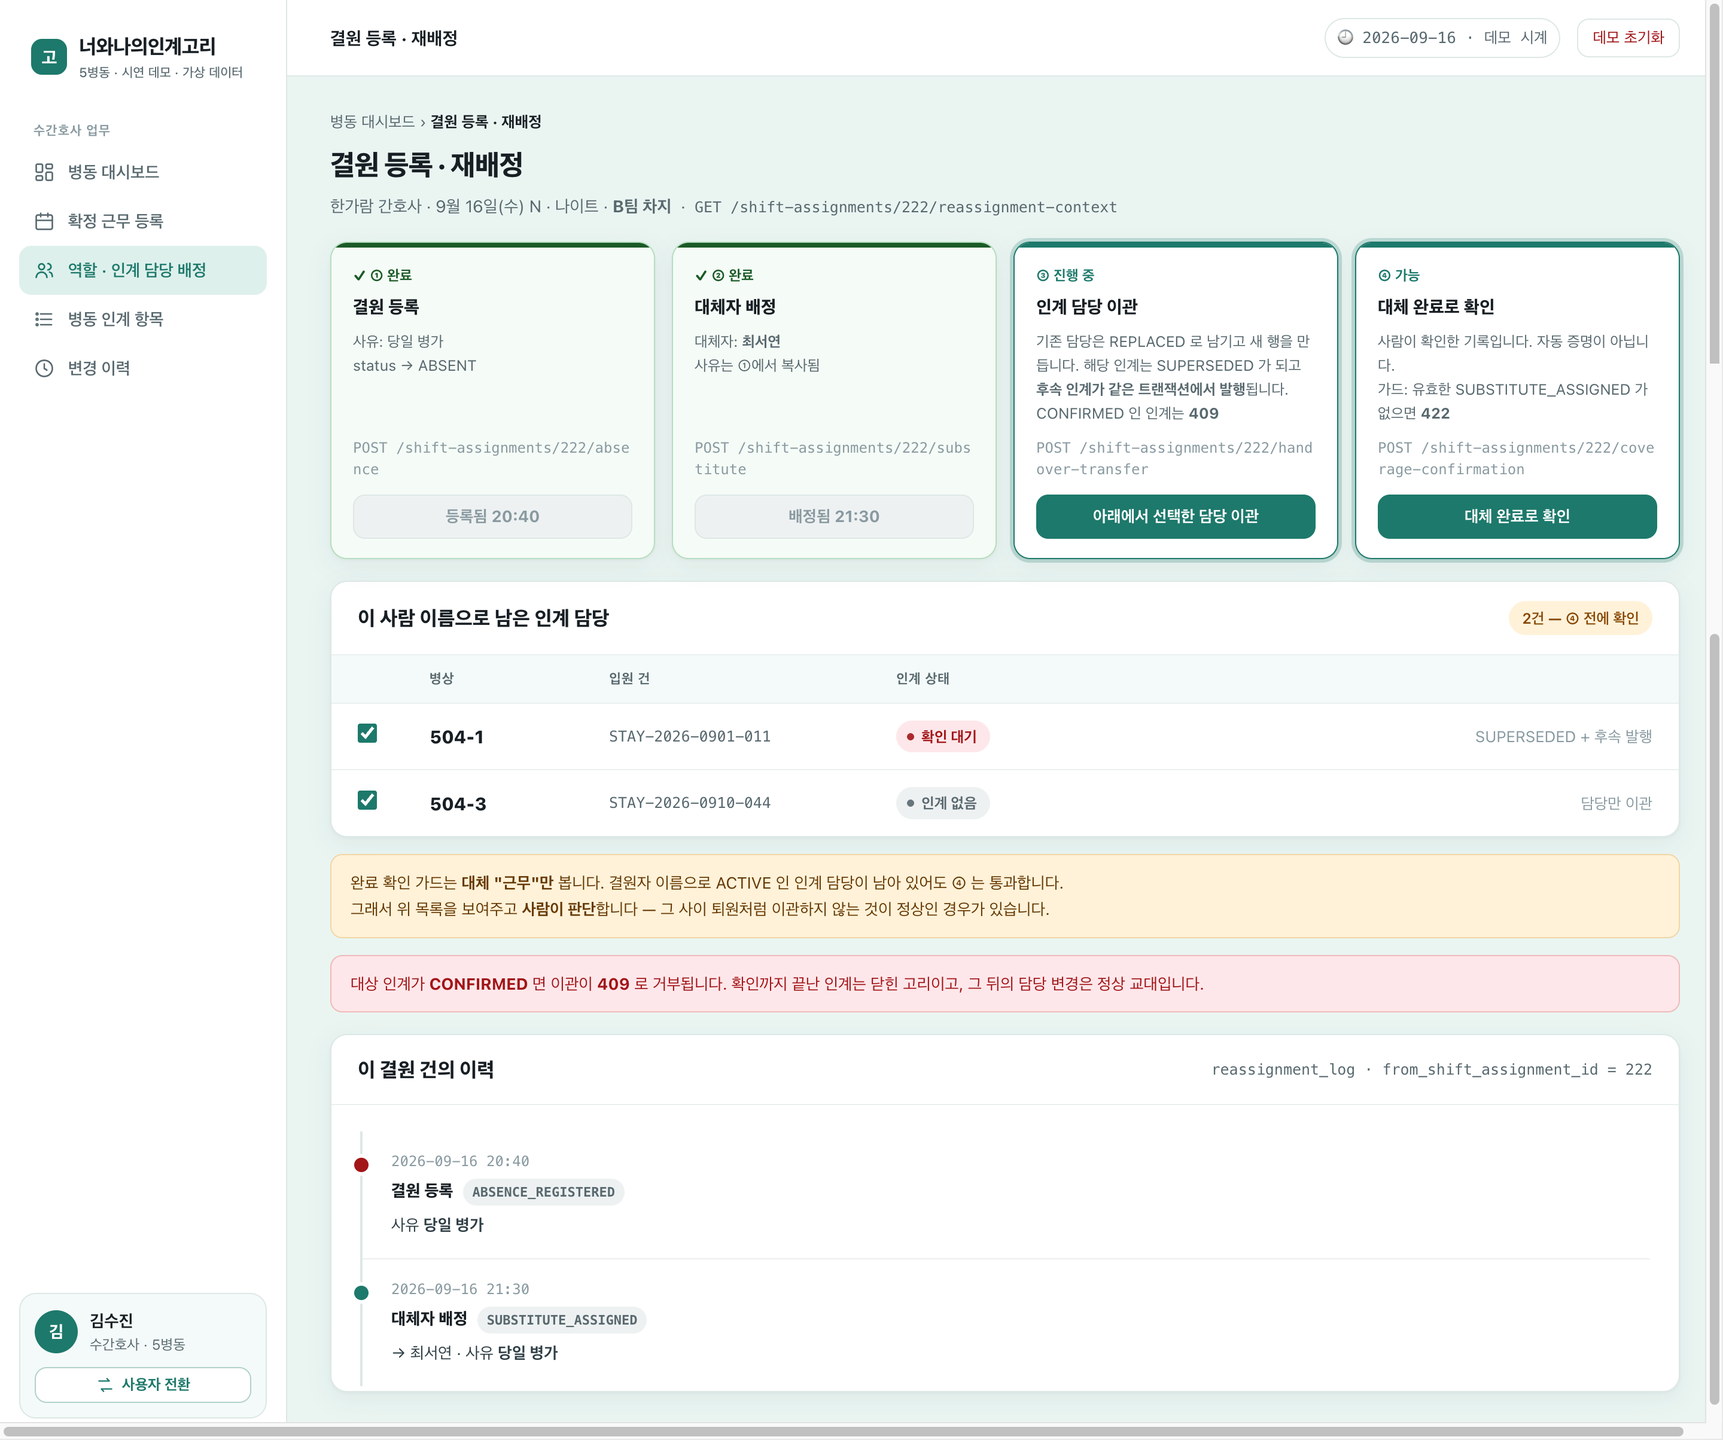
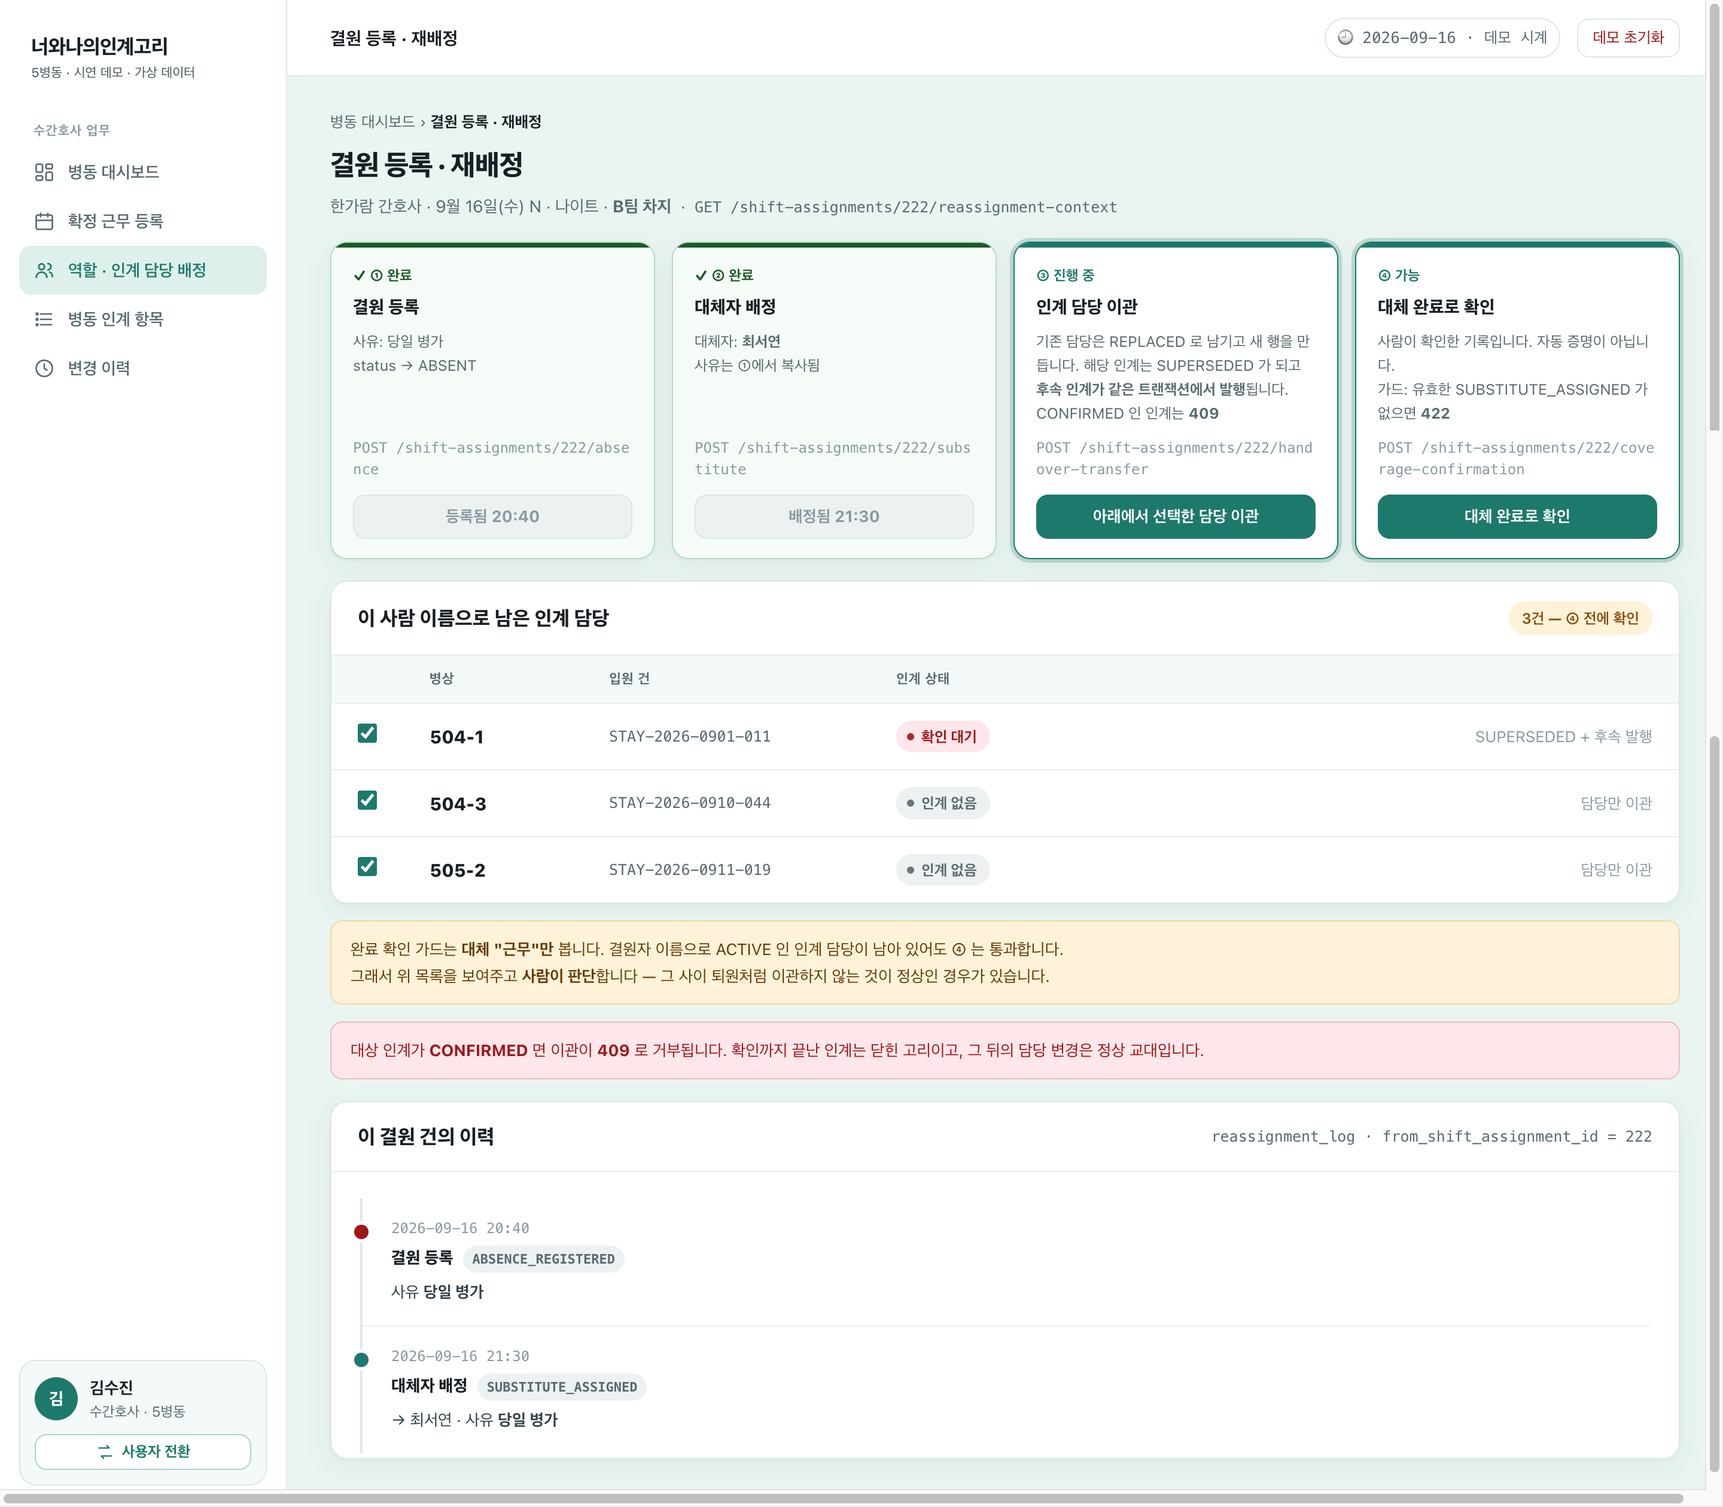
fix: 시연 피드백 — 재배정 ② 역할 부여 옵션 · 보드 역할 즉시 저장 · 시드 505-2 를 한가람 담당에 포함 (R136)
- 대체자 배정 뒤 결원자 역할을 대체자에게 PATCH (체크 기본 켬)
- 배정 보드: 역할 select 변경 즉시 PATCH · 저장 버튼 제거
- 캡처 4 · 6 · 7 재촬영 · docs/07 §0·⑤·⑥ 갱신

diff --git a/demo/js/views.js b/demo/js/views.js
@@ -134,17 +134,20 @@
       return '<tr><td class="bed">' + h(r.user_name) + '</td><td>' + roleCell + '</td><td>' + h(r.team_name || '—') + '</td><td>' + chips + '</td><td class="act">' + act + '</td></tr>';
     }).join('') || '<tr><td colspan="5" style="padding:0"><div class="empty"><div class="ttl">이 근무조에 등록된 근무가 없습니다</div><a class="next" href="#/shifts">다음 할 일 — 확정 근무 등록에서 먼저 등록합니다</a></div></td></tr>';
     return {
-      html: '<div class="wrap">' + crumb('병동 대시보드', '#/dashboard', '역할 · 인계 담당 배정') + '<h1>역할 · 인계 담당 배정</h1><div class="sub">저장하면 간호사 화면에 즉시 반영됩니다. 별도 게시 단계가 없습니다.</div><div id="err"></div>' +
+      html: '<div class="wrap">' + crumb('병동 대시보드', '#/dashboard', '역할 · 인계 담당 배정') + '<h1>역할 · 인계 담당 배정</h1><div class="sub">고르는 즉시 저장되어 간호사 화면에 반영됩니다. 별도 게시 단계가 없습니다.</div><div id="err"></div>' +
         '<div class="bar2"><select class="sel" id="bDate">' + dateOpts(st.date) + '</select><select class="sel" id="bShift">' + shiftOpts(st.shift) + '</select><span class="sp"></span><span style="font-size:14px;color:#5B6B70">역할별 배정 인원 &nbsp;<b style="color:#1E2B30">' + (Object.keys(counts).map(function (k) { return k + ' ' + counts[k]; }).join(' · ') || '—') + '</b></span></div>' +
         '<div class="card"><table><thead><tr><th style="width:150px">근무자</th><th style="width:190px">역할</th><th style="width:90px">팀</th><th>인계 담당 입원 건 (병상) — 팀 차지</th><th style="width:150px"></th></tr></thead><tbody>' + rows + '</tbody></table>' +
         '<div style="padding:14px 24px;font-size:14px;color:#5B6B70;background:#FAFCFC;border-top:1px solid #EDF2F4">팀 환자는 팀이 공동으로 봅니다. 여기서 지정하는 것은 입원 건별 <b>인계 담당(작성·수신할 차지)</b>이며, 기본값은 그 근무의 팀 차지입니다. 역할·팀은 DB·API 가 강제하지 않습니다 — 수간호사의 지정으로 기록합니다.</div></div>' +
         (unassigned.length ? '<div class="warn">' + h(unassigned.join(' · ')) + ' 간호사의 <b>역할이 배정되지 않았습니다.</b> 역할 없이 저장하면 해당 간호사 화면에 "역할 배정 대기"로 표시됩니다.</div>' : '') +
-        '<div class="row-actions"><button class="btn sec" data-act="revert">되돌리기</button><button class="btn" data-act="save">저장 · 즉시 반영</button></div>' +
+        '<div class="ok" style="margin-top:14px">역할 선택과 인계 담당 지정은 <b>고르는 즉시 저장·반영</b>됩니다. 별도 저장 버튼이 없습니다 (게시 단계 없음).</div>' +
         '<div class="src" style="margin-top:12px">GET /wards/5/assignment-board?date=' + st.date + '&shift_code=' + st.shift + ' · PATCH /shift-assignments/{id} · POST /shift-assignments/{id}/handover-assignments</div></div>',
       bind: function (root) {
         sel(root, '#bDate').onchange = function (e) { st.date = e.target.value; st.open = null; st.changed = {}; A().render(); };
         sel(root, '#bShift').onchange = function (e) { st.shift = e.target.value; st.open = null; st.changed = {}; A().render(); };
-        all(root, '[data-role]').forEach(function (s) { s.onchange = function () { st.changed[s.dataset.role] = s.value ? +s.value : null; }; });
+        all(root, '[data-role]').forEach(function (s) { s.onchange = function () { // 역할 선택 즉시 반영 (T5-b 3번: 저장 즉시 공개 · 별도 게시 단계 없음)
+          try { var r = I('updateShiftAssignmentRole', { shiftAssignmentId: +s.dataset.role, body: { role_type_id: s.value ? +s.value : null } }); A().render(); ok(sel(document, '#view'), '<b>역할이 즉시 반영되었습니다.</b> ' + h(r.role_name || '역할 없음') + ' — 간호사 화면(내 근무)에 바로 보입니다.'); }
+          catch (e) { showErr(root, e); }
+        }; });
         onAct(root, {
           open: function (el) { st.open = +el.dataset.sa; A().render(); },
           close: function () { st.open = null; A().render(); },
@@ -152,12 +155,7 @@
             var ids = all(root, '[data-stay]:checked').map(function (c) { return +c.dataset.stay; });
             I('assignHandoverOwnership', { shiftAssignmentId: +el.dataset.sa, body: { inpatient_stay_ids: ids } }); st.open = null; A().render();
           },
-          revert: function () { st.changed = {}; A().render(); },
-          save: function () {
-            var ks = Object.keys(st.changed); if (!ks.length) { ok(root, '바뀐 역할이 없습니다. 인계 담당 지정은 행마다 즉시 반영됩니다.'); return; }
-            ks.forEach(function (k) { I('updateShiftAssignmentRole', { shiftAssignmentId: +k, body: { role_type_id: st.changed[k] } }); });
-            st.changed = {}; A().render(); ok(sel(document, '#view'), '<b>역할 ' + ks.length + '건 저장 · 즉시 반영되었습니다.</b> 간호사 화면(내 근무)에 바로 보입니다.');
-          }
+          revert: function () { A().render(); }
         });
       }
     };
@@ -206,7 +204,8 @@
       : '<div class="step' + (isAbsent ? ' now' : '') + '"><div class="no">② ' + (isAbsent ? '진행 중' : '대기') + '</div><div class="ti">대체자 배정</div><div class="ds">같은 병동 · 같은 날 · 같은 근무조의 ACTIVE 근무자만 후보. 없던 사람이면 근무를 새로 만듭니다</div><div class="src">POST /shift-assignments/' + id + '/substitute</div>' +
         '<select class="sel" id="cand"><option value="">대체자 선택</option>' + c.candidates.map(function (x) { return '<option value="sa:' + x.shift_assignment_id + '">' + h(x.user_name) + ' (' + h(x.team_name || '—') + ' · ' + h(x.role_name || '역할 미배정') + ')</option>'; }).join('') +
         S().db.users.filter(function (u) { return u.user_type === 'NURSE' && u.id !== S().db.shift_assignment.filter(function (s) { return s.id === id; })[0].user_id && !c.candidates.some(function (x) { return x.user_name === u.name; }); }).map(function (u) { return '<option value="u:' + u.id + '">' + h(u.name) + ' (' + h(A().teamOf(u)) + ' · 이 근무에 없음 → 근무 생성)</option>'; }).join('') +
-        '</select><button class="btn" data-act="substitute"' + (isAbsent ? '' : ' disabled') + '>' + (isAbsent ? '대체자 배정' : '결원 등록 후 가능') + '</button></div>';
+        '</select>' + (a.role_name ? '<label class="chk" style="margin-top:10px"><input type="checkbox" id="giveRole" checked> 결원자의 역할(<b>' + h(a.role_name) + '</b>)도 대체자에게 부여</label>' : '') +
+        '<button class="btn" data-act="substitute"' + (isAbsent ? '' : ' disabled') + '>' + (isAbsent ? '대체자 배정' : '결원 등록 후 가능') + '</button></div>';
     var pendN = c.pending_handover_assignments.length;
     var step3 = '<div class="step' + (sub && pendN && !covered ? ' now' : (sub && !pendN ? ' done' : '')) + '"><div class="no">③ ' + (sub ? (pendN ? '진행 중' : '이관할 담당 없음') : '대기') + '</div><div class="ti">인계 담당 이관</div><div class="ds">기존 담당은 REPLACED 로 남기고 새 행을 만듭니다. 해당 인계는 SUPERSEDED 가 되고 <b>후속 인계가 같은 트랜잭션에서 발행</b>됩니다. CONFIRMED 인 인계는 <b>409</b></div><div class="src">POST /shift-assignments/' + id + '/handover-transfer</div><button class="btn' + (sub && pendN ? '' : ' sec') + '" data-act="transfer"' + (sub && pendN ? '' : ' disabled') + '>' + (sub ? (pendN ? '아래에서 선택한 담당 이관' : '남은 담당 없음') : '대체자 배정 후 가능') + '</button></div>';
     var step4 = covered ? '<div class="step done"><div class="no">④ 완료</div><div class="ti">대체 완료로 확인</div><div class="ds">covered_at = ' + A().dtFull(a.covered_at) + '<br>사람이 확인한 기록입니다. 자동 증명이 아닙니다</div><div class="src">POST /shift-assignments/' + id + '/coverage-confirmation</div><button class="btn sec" disabled>확인됨 ' + logAt('COVER_CONFIRMED') + '</button></div>'
@@ -225,7 +224,14 @@
       bind: function (root) {
         onAct(root, {
           absence: function () { I('registerAbsence', { shiftAssignmentId: id, body: { change_reason: sel(root, '#reason').value } }); A().render(); },
-          substitute: function () { var v = sel(root, '#cand').value; if (!v) { showErr(root, { status: 422, code: 'TARGET_REQUIRED', message: '대체자를 선택하세요' }); return; } var body = v.slice(0, 3) === 'sa:' ? { to_shift_assignment_id: +v.slice(3) } : { substitute_user_id: v.slice(2) }; I('assignSubstitute', { shiftAssignmentId: id, body: body }); A().render(); },
+          substitute: function () {
+            var v = sel(root, '#cand').value; if (!v) { showErr(root, { status: 422, code: 'TARGET_REQUIRED', message: '대체자를 선택하세요' }); return; }
+            var body = v.slice(0, 3) === 'sa:' ? { to_shift_assignment_id: +v.slice(3) } : { substitute_user_id: v.slice(2) };
+            var r = I('assignSubstitute', { shiftAssignmentId: id, body: body });
+            // 역할 부여는 별도 API(PATCH role) — 대체자 배정 자체는 역할을 옮기지 않는다 (DBML: 역할·팀은 강제하지 않음)
+            var give = sel(root, '#giveRole'); if (give && give.checked) { var absSa = S().db.shift_assignment.filter(function (x) { return x.id === id; })[0]; var toSa = S().db.shift_assignment.filter(function (x) { return x.id === r.to_shift_assignment_id; })[0]; if (absSa.role_type_id && !toSa.role_type_id) I('updateShiftAssignmentRole', { shiftAssignmentId: r.to_shift_assignment_id, body: { role_type_id: absSa.role_type_id } }); }
+            A().render();
+          },
           transfer: function () { var ids = all(root, '[data-stay]:checked').map(function (x) { return +x.dataset.stay; }); var r = I('transferHandoverOwnership', { shiftAssignmentId: id, body: { to_shift_assignment_id: sub.shift_assignment_id, inpatient_stay_ids: ids } }); A().render(); ok(sel(document, '#view'), '<b>' + r.transferred.length + '건 이관.</b> ' + r.transferred.map(function (t) { return t.superseded_handover_id ? '인계 #' + t.superseded_handover_id + ' → SUPERSEDED, 후속 #' + t.successor_handover_id + ' 발행' : '담당만 이관(인계 없음)'; }).join(' · ')); },
           cover: function () { I('confirmCoverage', { shiftAssignmentId: id }); A().render(); }
         });

diff --git a/demo/index.html b/demo/index.html
@@ -3,7 +3,7 @@
 <head>
 <meta charset="utf-8">
 <title>너와나의인계고리 — 시연 데모 (가상 데이터)</title>
-<link rel="stylesheet" href="css/base.css?v=20260916141612">
+<link rel="stylesheet" href="css/base.css?v=20260916142457">
 </head>
 <body>
 <div class="app">
@@ -17,10 +17,10 @@
   <div class="body" id="apilogBody"></div>
   <div class="bar" id="apilogBar"><span class="lbl">API</span><span class="code" id="apilogLast">아직 호출 없음 — 버튼을 누르면 어느 오퍼레이션이 어떤 상태코드로 응답했는지 여기에 남습니다</span><span class="hint">클릭 펼침</span></div>
 </div>
-<script src="js/seed.js?v=20260916141612"></script>
-<script src="js/store.js?v=20260916141612"></script>
-<script src="js/api.js?v=20260916141612"></script>
-<script src="js/views.js?v=20260916141612"></script>
-<script src="js/app.js?v=20260916141612"></script>
+<script src="js/seed.js?v=20260916142457"></script>
+<script src="js/store.js?v=20260916142457"></script>
+<script src="js/api.js?v=20260916142457"></script>
+<script src="js/views.js?v=20260916142457"></script>
+<script src="js/app.js?v=20260916142457"></script>
 </body>
 </html>

diff --git a/demo/js/seed.js b/demo/js/seed.js
@@ -122,7 +122,7 @@
     var ha104_3 = ha(104, 3, { created_at: ts('2026-09-15', '08:50') });
     [1, 2, 3, 4].forEach(function (s) { ha(201, s); ha(211, s); ha(221, s); });
     [5, 6, 7].forEach(function (s) { ha(203, s); ha(213, s); });
-    ha(222, 5); ha(222, 6); // 한가람 — 505-2 는 아직 미지정(부분 지정 상태)
+    ha(222, 5); ha(222, 6); ha(222, 7); // 한가람 — B팀 3건 전부 (09-16 시연 피드백: 부분 지정은 혼란만 줬다)
 
     // ---- 인계 ---------------------------------------------------
     var T = db.handover_template_item;

diff --git a/docs/07_시연-시나리오.md b/docs/07_시연-시나리오.md
@@ -14,14 +14,14 @@
 | **한서윤** | A팀 차지 · 9/16 E (14~22시) | 인계 **작성·전달** |
 | **정하늘** | A팀 차지 · 9/16 N (22~08시) | 인계 **수신·요약·확인** |
 | **최서연** | B팀 · 9/16 N · 역할 미배정 | 같은 팀 **열람만** → 대체자가 되어 후속 인계 확인 |
-| **한가람** | B팀 차지 · 9/16 N · **결원(ABSENT)** | 재배정 대상 (화면에 등장만) |
+| **한가람** | B팀 차지 · 9/16 N · **결원(ABSENT)** · 504-1 · 504-3 · 505-2 담당 | 재배정 대상 (화면에 등장만) |
 
 시드가 만들어 둔 상태:
 
 ```
 미확인 인계 2건   501-1 (한서윤 → 정하늘 · SENT)  ·  504-1 (서지호 → 한가람 · SENT)
 작성 중 1건       501-3 (한서윤 → 정하늘 · DRAFT · 필수 항목 2개 비어 있음)
-대체 전 결원 1건  한가람 9/16 N (20:40 등록 · 사유 "당일 병가" · 504-1 · 504-3 담당)
+대체 전 결원 1건  한가람 9/16 N (20:40 등록 · 사유 "당일 병가" · B팀 3건 담당)
 과거 사례         9/15 박영숙 결원 → 정하늘 대체 · 502-2 인계 SUPERSEDED + 후속 CONFIRMED
 ```
 
@@ -92,15 +92,16 @@ flowchart LR
 - 4단계 카드: ① 결원 등록(완료·20:40) · ② 대체자 배정 · ③ 인계 담당 이관 · ④ 대체 완료로 확인
 - 먼저 **④ 대체 완료로 확인** 클릭 → **`422 NO_VALID_SUBSTITUTE`**
   - 한 마디: *"대체자 없이 '완료'라고 적을 수 없습니다. 완료는 자동 판정이 아니라 사람의 확인 기록이지만, 근거 없는 확인은 막습니다."*
-- ② 대체자 **최서연** 선택 → **대체자 배정** → 배정됨 · 사유는 ①에서 **복사**
-- ③ 잔여 담당 2건(504-1 확인 대기 · 504-3 인계 없음) 체크된 채 **이관** →
-  결과 박스: *"인계 #8 → SUPERSEDED, 후속 #9 발행 · 504-3 은 담당만 이관"*
+- ② 대체자 **최서연** 선택 · **"결원자의 역할(차지)도 대체자에게 부여"** 체크 유지 → **대체자 배정** → 배정됨 · 사유는 ①에서 **복사** · 최서연이 **차지**가 됨(별도 PATCH — 대체자 배정 자체는 역할을 옮기지 않는다)
+- ③ 잔여 담당 3건(504-1 확인 대기 · 504-3 · 505-2 인계 없음) 체크된 채 **이관** →
+  결과 박스: *"인계 #8 → SUPERSEDED, 후속 #9 발행 · 504-3 · 505-2 는 담당만 이관(인계 없음)"*
   - 한 마디: *"원본 인계는 지우지 않고 SUPERSEDED 로 보존, 새 수신자에게 후속 인계를 같은 트랜잭션에서 발행합니다."*
 - ④ **대체 완료로 확인** → covered_at 기록 · 대시보드 결원 **0건**
 
 ### ⑥ 최서연 — 고리가 닫힌다 (20초)
 
-- 사용자 전환 → **최서연** → 504-1 에 **인계 담당** 표시 + **인계 확인** 버튼 + "결원 재배정 이력 있음"
+- 사용자 전환 → **최서연** → 역할 **차지** · 3건 모두 **인계 담당** 표시 · 504-1 에 **인계 확인** 버튼 + "결원 재배정 이력 있음"
+- 짚을 점: 505-2 는 앞 근무(서지호 E)가 아직 인계를 안 써서 **"인계 없음"** — 받을 것이 없는 상태이지 접근 제한이 아니다. 서지호가 쓰면 그때 최서연에게 온다
 - 요약 입력 → **확인 처리** → **CONFIRMED**
 - 한 마디: *"결원이 났어도 '누가 받아 확인했는지'가 끊기지 않았습니다. 이게 고리입니다."*
 

diff --git a/demo/README.md b/demo/README.md
@@ -36,11 +36,11 @@
 | # | 사용자 | 화면 | 누르는 것 | 보여줄 것 |
 |---|---|---|---|---|
 | 1 | 김수진 | 대시보드 | — | 미확인 인계 **2건** · 대체 전 결원 **1건**(한가람) · "인계 미작성 N건" 이 **없는 이유** |
-| 2 | 김수진 | 배정 보드 (9/16 N) | 최서연 역할 선택 → 저장 | 저장 즉시 반영 · 인계 담당 칩 = 팀 차지 근무에만 |
+| 2 | 김수진 | 배정 보드 (9/16 N) | 역할 선택(즉시 저장) · + 인계 담당 추가 | 고르는 즉시 반영 · 인계 담당 칩 = 팀 차지 근무에만 |
 | 3 | 한서윤 | 내 근무 | 501-3 **작성 계속** → **인계 넘기기** | **422** 필수 2개 비어 있음 → 채우고 다시 → SENT · 받는 사람은 서버가 고른 다음 근무 차지(정하늘) |
 | 4 | 정하늘 | 내 근무 | 501-3 **인계 확인** → 요약 없이 **확인 처리** | 화면 진입 = `POST …/receipt` 열람 기록 · **422** 요약 필수 → 요약 입력 → CONFIRMED |
 | 5 | 최서연 | 내 근무 | 504-1 **받은 인계 보기** → 확인 처리 | 같은 팀·같은 근무라 **열람은 됨**(읽기 3단 ③) · 확인은 **403** |
-| 6 | 김수진 | 대시보드 → 한가람 **재배정** | ④ 먼저 → ② 최서연 → ③ 이관 → ④ | **422**(② 전 ④) · 504-1 인계 **SUPERSEDED + 후속 발행** · covered_at 은 사람의 확인 |
+| 6 | 김수진 | 대시보드 → 한가람 **재배정** | ④ 먼저 → ② 최서연(역할 부여 체크) → ③ 이관 3건 → ④ | **422**(② 전 ④) · 504-1 인계 **SUPERSEDED + 후속 발행** · covered_at 은 사람의 확인 |
 | 7 | 최서연 | 내 근무 | 504-1 **인계 확인** | 대체자가 후속 인계를 받아 확인 → 고리가 닫힘 · "결원 재배정 이력 있음" 표시 |
 | 8 | 김수진 | 변경 이력 | — | 4단계 로그 · 사유는 ①에서 한 번만, 나머지는 **복사** |
 
